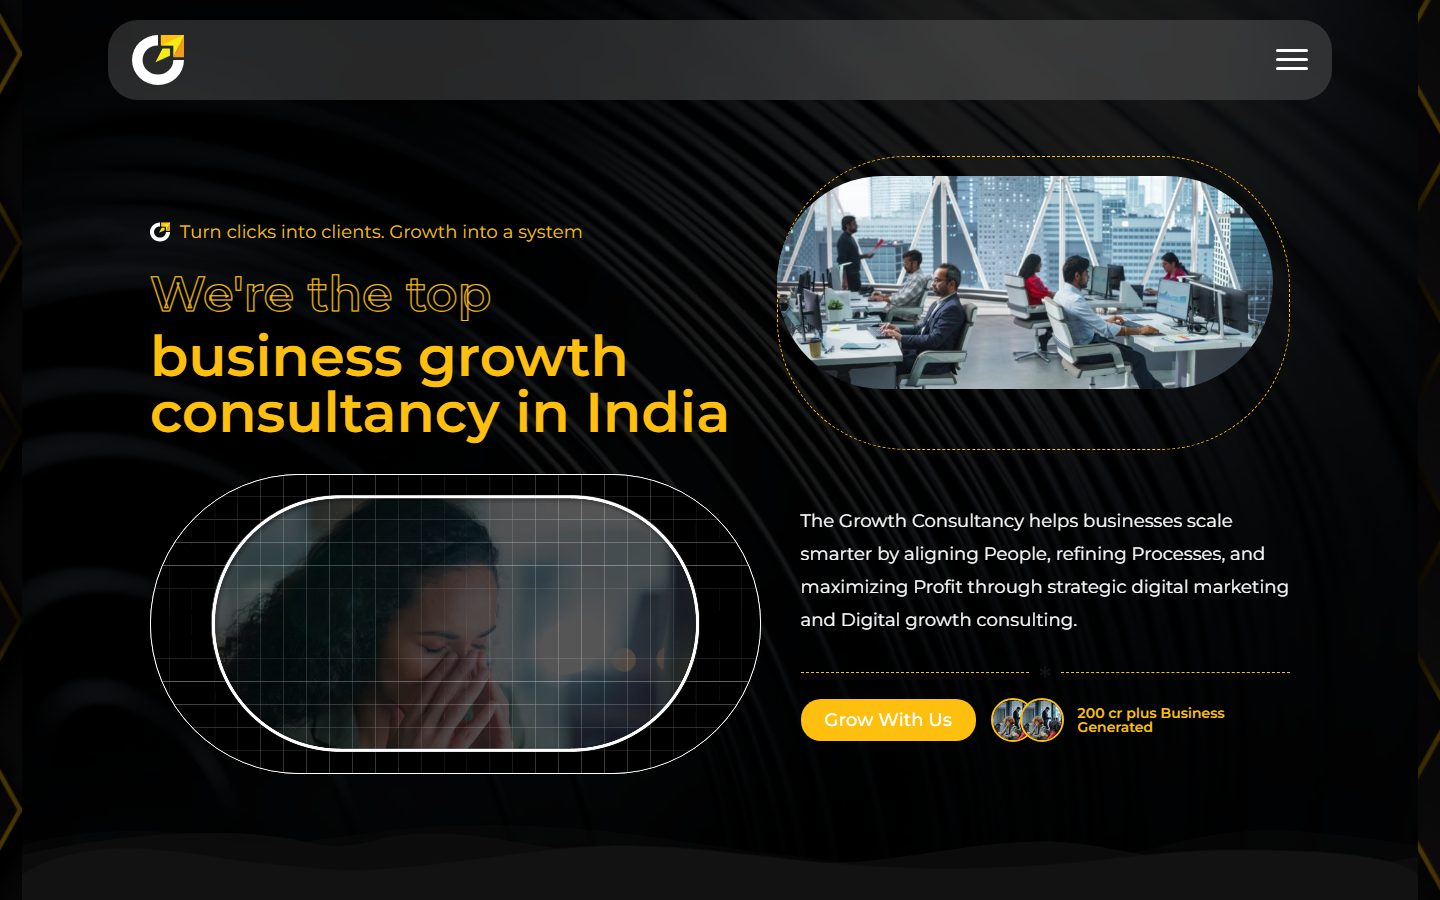
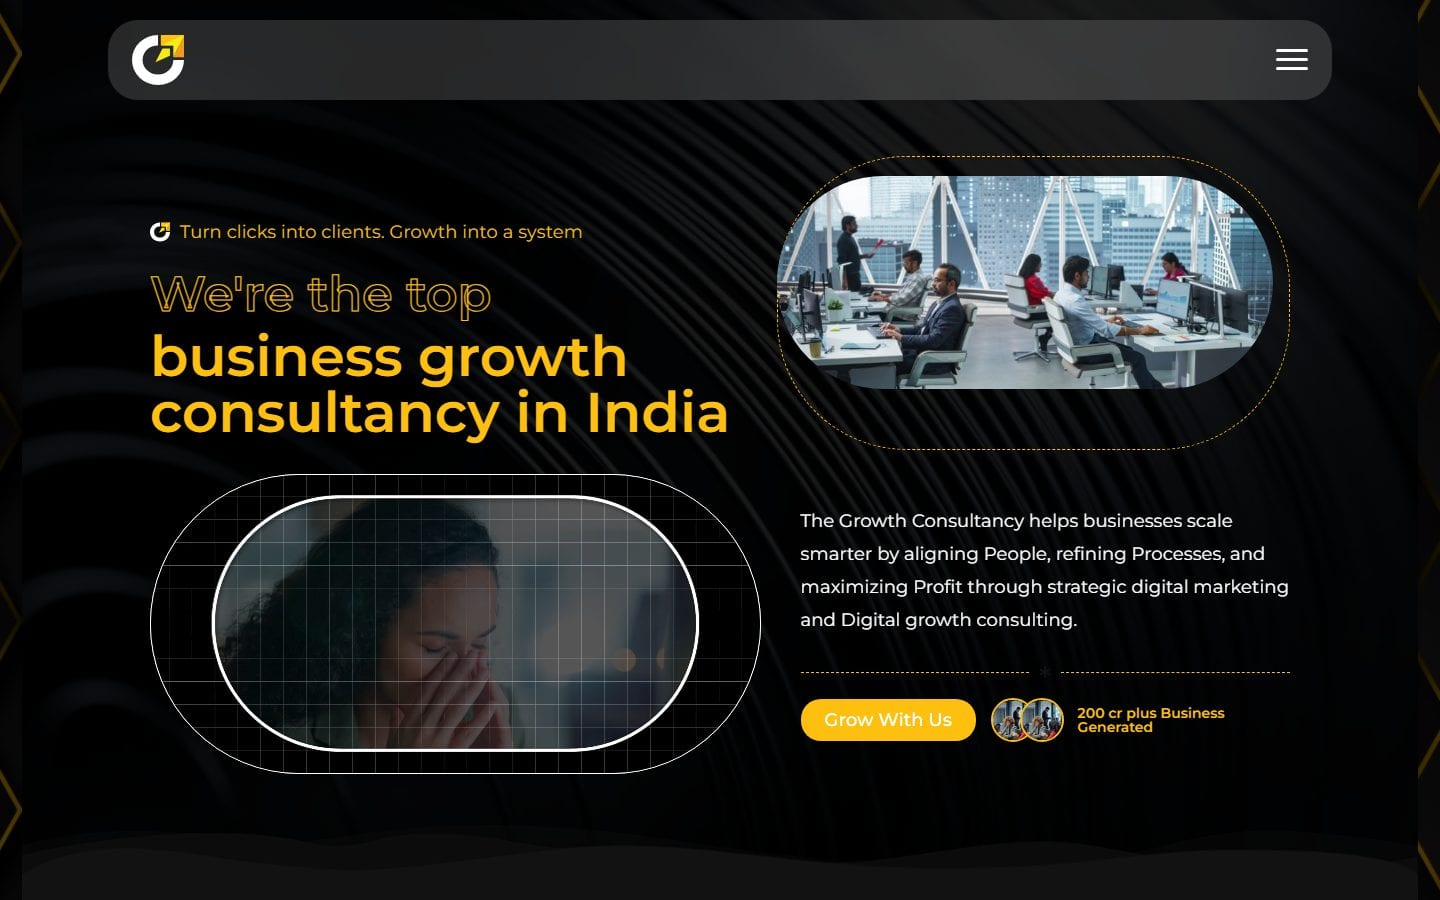
Performance and mobile fixes
- Convert "How We Work" process cards to a horizontal scroll track for
  a better mobile experience (matches Services/Work sections)
- Fix footer "Home" link to route to / instead of #top so it works
  from any page, not just the homepage
- Code-split the admin dashboard into its own chunk so public
  visitors never download it
- Losslessly compress all site images (~1MB total savings, no visual
  change): CEO photo 695KB->151KB, logo 229KB->55KB, work/logo images
  optimized further

diff --git a/src/App.jsx b/src/App.jsx
@@ -1,3 +1,4 @@
+import { lazy, Suspense } from 'react'
 import { Routes, Route } from 'react-router-dom'
 import Home from './pages/Home.jsx'
 import Services from './pages/Services.jsx'
@@ -7,17 +8,21 @@ import Team from './pages/Team.jsx'
 import Career from './pages/Career.jsx'
 import Contact from './pages/Contact.jsx'
 import GenericPage from './pages/GenericPage.jsx'
-import AdminAuthProvider from './admin/AdminAuthContext.jsx'
-import RequireAdmin from './admin/RequireAdmin.jsx'
-import Login from './admin/pages/Login.jsx'
-import Dashboard from './admin/pages/Dashboard.jsx'
-import PagesList from './admin/pages/PagesList.jsx'
-import NewPage from './admin/pages/NewPage.jsx'
-import PageEditor from './admin/pages/PageEditor.jsx'
-import SectionEditor from './admin/pages/SectionEditor.jsx'
-import Settings from './admin/pages/Settings.jsx'
-import Menu from './admin/pages/Menu.jsx'
-import Media from './admin/pages/Media.jsx'
+
+// Admin dashboard code (forms, editors, media library) is only ever needed by
+// the site owner, never by public visitors — split into its own chunk so it
+// doesn't add weight to the public pages' initial load.
+const AdminAuthProvider = lazy(() => import('./admin/AdminAuthContext.jsx'))
+const RequireAdmin = lazy(() => import('./admin/RequireAdmin.jsx'))
+const Login = lazy(() => import('./admin/pages/Login.jsx'))
+const Dashboard = lazy(() => import('./admin/pages/Dashboard.jsx'))
+const PagesList = lazy(() => import('./admin/pages/PagesList.jsx'))
+const NewPage = lazy(() => import('./admin/pages/NewPage.jsx'))
+const PageEditor = lazy(() => import('./admin/pages/PageEditor.jsx'))
+const SectionEditor = lazy(() => import('./admin/pages/SectionEditor.jsx'))
+const Settings = lazy(() => import('./admin/pages/Settings.jsx'))
+const Menu = lazy(() => import('./admin/pages/Menu.jsx'))
+const Media = lazy(() => import('./admin/pages/Media.jsx'))
 
 function App() {
   return (
@@ -30,7 +35,16 @@ function App() {
       <Route path="/career" element={<Career />} />
       <Route path="/contact" element={<Contact />} />
 
-      <Route path="/admin/*" element={<AdminAuthProvider><AdminRoutes /></AdminAuthProvider>} />
+      <Route
+        path="/admin/*"
+        element={
+          <Suspense fallback={<AdminLoadingFallback />}>
+            <AdminAuthProvider>
+              <AdminRoutes />
+            </AdminAuthProvider>
+          </Suspense>
+        }
+      />
 
       {/* Admin-created pages render generically — matched by URL against the
           fetched pages list, so new pages need no code changes to go live. */}
@@ -39,18 +53,82 @@ function App() {
   )
 }
 
+function AdminLoadingFallback() {
+  return (
+    <div className="flex min-h-screen items-center justify-center bg-[#0b0b10] text-white/50">
+      Loading…
+    </div>
+  )
+}
+
 function AdminRoutes() {
   return (
     <Routes>
       <Route path="login" element={<Login />} />
-      <Route path="" element={<RequireAdmin><Dashboard /></RequireAdmin>} />
-      <Route path="pages" element={<RequireAdmin><PagesList /></RequireAdmin>} />
-      <Route path="pages/new" element={<RequireAdmin><NewPage /></RequireAdmin>} />
-      <Route path="pages/:id" element={<RequireAdmin><PageEditor /></RequireAdmin>} />
-      <Route path="pages/:id/sections/:sectionId" element={<RequireAdmin><SectionEditor /></RequireAdmin>} />
-      <Route path="menu" element={<RequireAdmin><Menu /></RequireAdmin>} />
-      <Route path="settings" element={<RequireAdmin><Settings /></RequireAdmin>} />
-      <Route path="media" element={<RequireAdmin><Media /></RequireAdmin>} />
+      <Route
+        path=""
+        element={
+          <RequireAdmin>
+            <Dashboard />
+          </RequireAdmin>
+        }
+      />
+      <Route
+        path="pages"
+        element={
+          <RequireAdmin>
+            <PagesList />
+          </RequireAdmin>
+        }
+      />
+      <Route
+        path="pages/new"
+        element={
+          <RequireAdmin>
+            <NewPage />
+          </RequireAdmin>
+        }
+      />
+      <Route
+        path="pages/:id"
+        element={
+          <RequireAdmin>
+            <PageEditor />
+          </RequireAdmin>
+        }
+      />
+      <Route
+        path="pages/:id/sections/:sectionId"
+        element={
+          <RequireAdmin>
+            <SectionEditor />
+          </RequireAdmin>
+        }
+      />
+      <Route
+        path="menu"
+        element={
+          <RequireAdmin>
+            <Menu />
+          </RequireAdmin>
+        }
+      />
+      <Route
+        path="settings"
+        element={
+          <RequireAdmin>
+            <Settings />
+          </RequireAdmin>
+        }
+      />
+      <Route
+        path="media"
+        element={
+          <RequireAdmin>
+            <Media />
+          </RequireAdmin>
+        }
+      />
     </Routes>
   )
 }

diff --git a/src/components/sections/ProcessSection.jsx b/src/components/sections/ProcessSection.jsx
@@ -1,21 +1,60 @@
+import { useRef } from 'react'
 import { motion } from 'framer-motion'
+import { HiChevronLeft, HiChevronRight } from 'react-icons/hi'
 import Reveal from '../Reveal.jsx'
 import TiltCard from '../TiltCard.jsx'
 import { getIcon } from '../../content/iconRegistry.js'
+import { useTrackWheelScroll, makeTrackScroller } from '../../content/useTrackWheelScroll.js'
 
+// Horizontal snap-scroll track (same pattern as Services/Work) instead of a
+// static grid — on mobile a 4-card grid meant a very long section to scroll
+// past; a track lets you swipe through the steps instead.
 export default function ProcessSection({ data = {}, items = [] }) {
+  const trackRef = useRef(null)
+  const scroll = makeTrackScroller(trackRef)
+  useTrackWheelScroll(trackRef, scroll)
+
   return (
     <div className="container-px">
-      <Reveal>
-        {data.eyebrow && <span className="section-eyebrow">{data.eyebrow}</span>}
-        <h2 className="max-w-xl font-display text-3xl text-[var(--color-text)] md:text-5xl">{data.heading}</h2>
+      <Reveal className="flex flex-wrap items-end justify-between gap-6">
+        <div>
+          {data.eyebrow && <span className="section-eyebrow">{data.eyebrow}</span>}
+          <h2 className="max-w-xl font-display text-3xl text-[var(--color-text)] md:text-5xl">{data.heading}</h2>
+        </div>
+        {items.length > 1 && (
+          <div className="hidden items-center gap-3 sm:flex">
+            <button
+              type="button"
+              onClick={() => scroll(-1)}
+              className="rounded-full border border-[var(--color-text)]/10 p-3 text-[var(--color-text)]/70 transition-colors hover:bg-[var(--color-text)]/5 hover:text-[var(--color-text)]"
+              aria-label="Scroll process left"
+            >
+              <HiChevronLeft size={20} />
+            </button>
+            <button
+              type="button"
+              onClick={() => scroll(1)}
+              className="rounded-full border border-[var(--color-text)]/10 p-3 text-[var(--color-text)]/70 transition-colors hover:bg-[var(--color-text)]/5 hover:text-[var(--color-text)]"
+              aria-label="Scroll process right"
+            >
+              <HiChevronRight size={20} />
+            </button>
+          </div>
+        )}
       </Reveal>
 
-      <div className="mt-14 grid grid-cols-1 gap-5 sm:grid-cols-2 lg:grid-cols-4">
+      <div
+        ref={trackRef}
+        className="no-scrollbar mt-14 flex snap-x snap-mandatory gap-5 overflow-x-auto scroll-smooth pb-4"
+      >
         {items.map((item, i) => {
           const Icon = getIcon(item.icon)
           return (
-            <Reveal key={item.step} delay={i * 0.08}>
+            <Reveal
+              key={item.step}
+              delay={i * 0.08}
+              className="w-[85%] shrink-0 snap-start sm:w-[calc((100%-20px)/2)] lg:w-[calc((100%-60px)/4)]"
+            >
               <TiltCard>
                 <div className="relative h-full rounded-3xl border border-[var(--color-text)]/10 bg-[var(--color-bg)] !p-9">
                   <span

diff --git a/src/content/fallbackContent.js b/src/content/fallbackContent.js
@@ -54,7 +54,7 @@ export const fallbackFooterLinks = [
   {
     title: 'Company',
     links: [
-      { label: 'Home', href: '#top' },
+      { label: 'Home', href: '/' },
       { label: 'Services', href: '/services' },
     ],
   },
